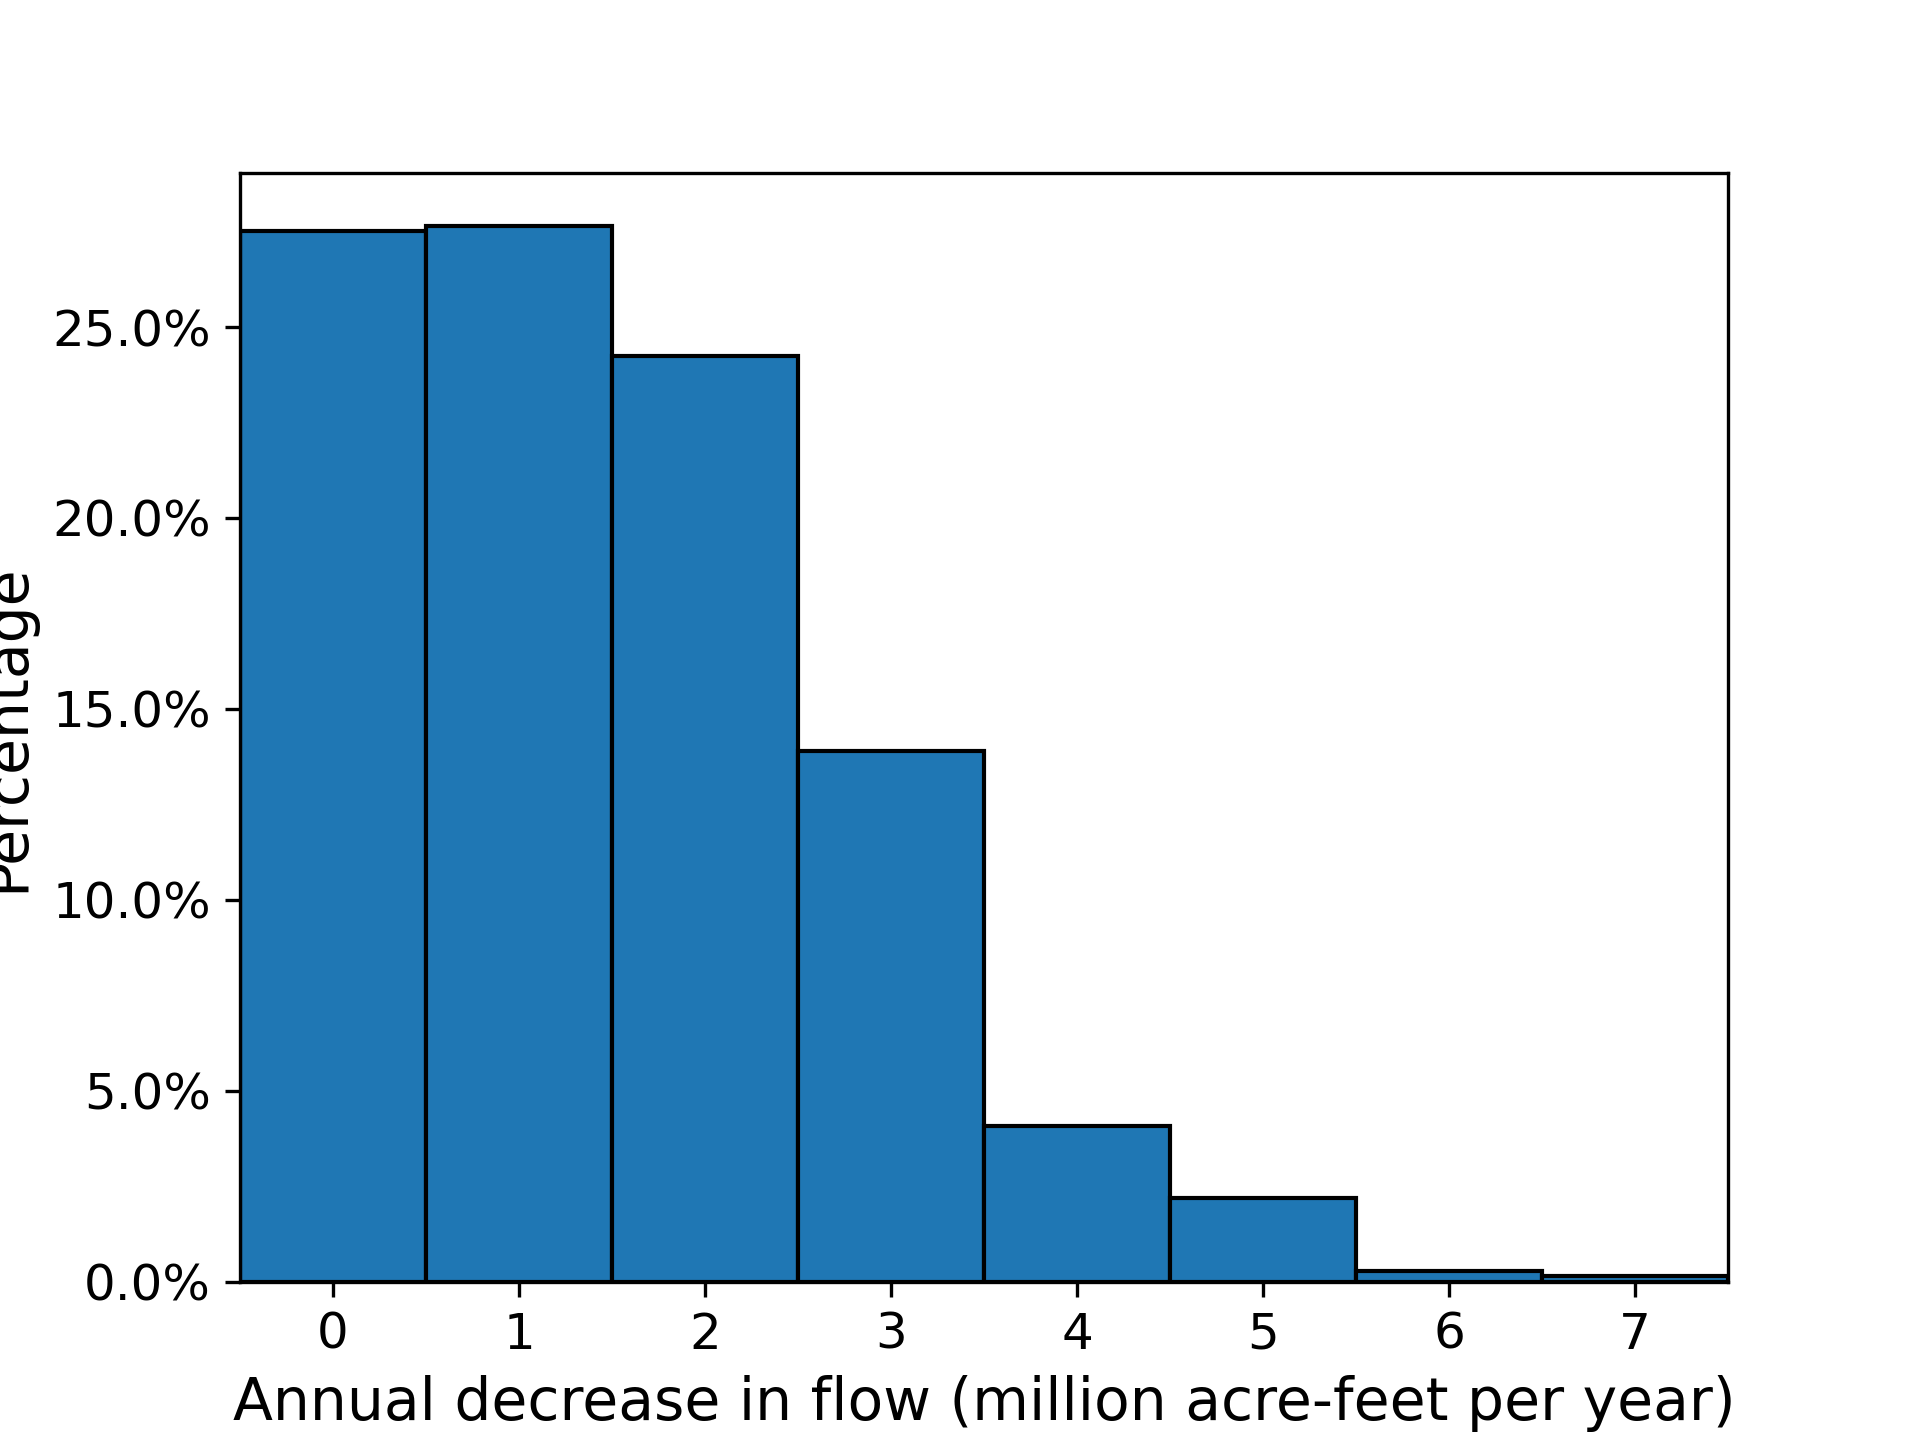
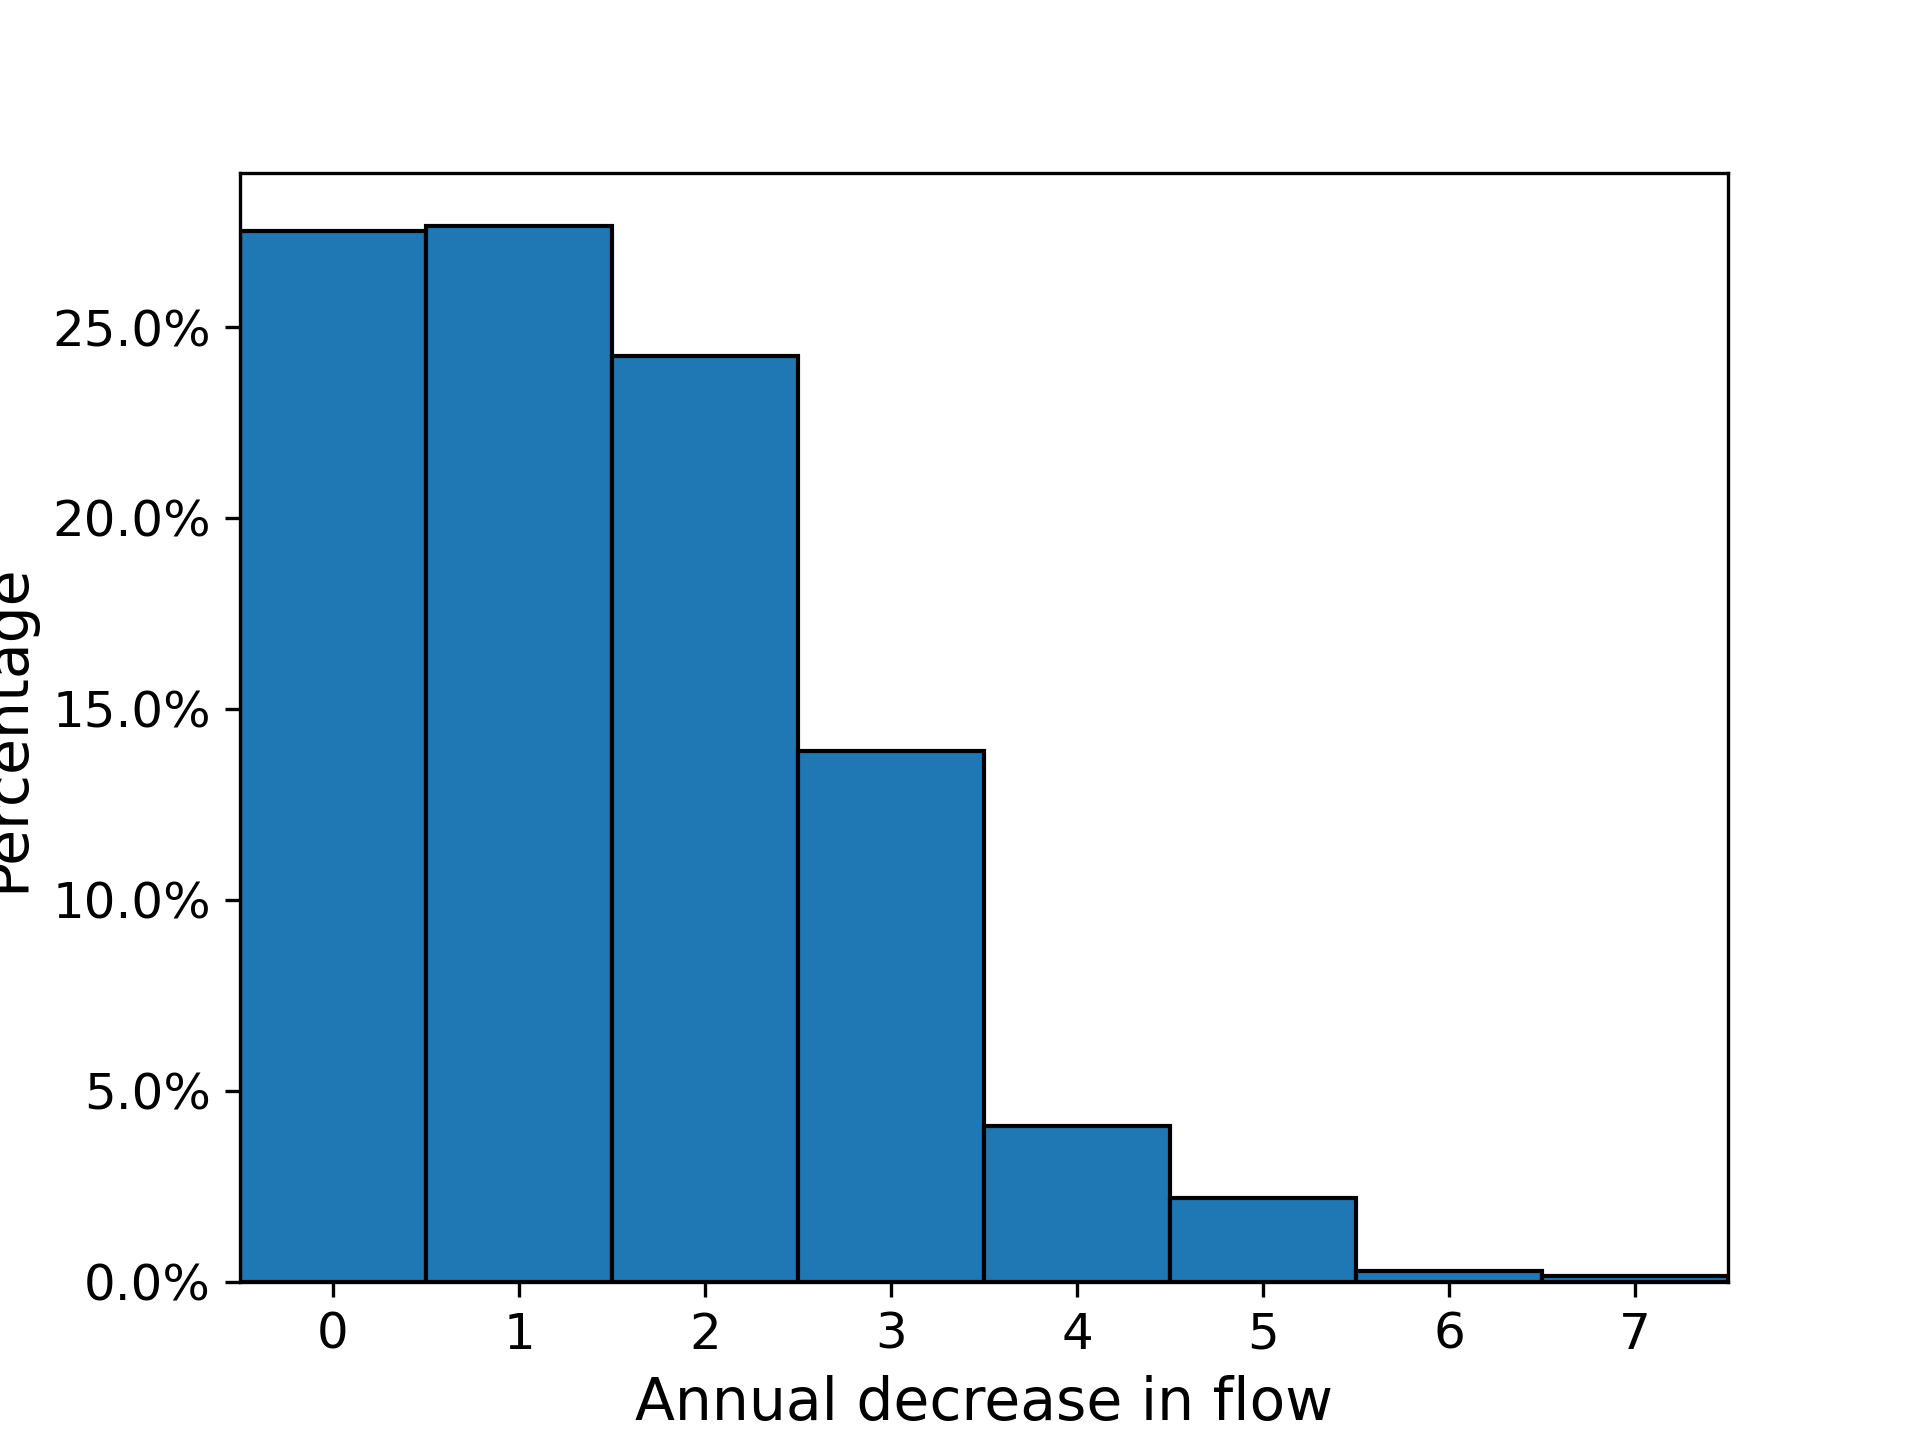
updated figure

Changed region(s): [[0.125, 0.9375, 0.9062, 1.0]]

diff --git a/AnnualDifferenceInFlow/AnnualDifferenceInFlow.py b/AnnualDifferenceInFlow/AnnualDifferenceInFlow.py
@@ -89,7 +89,7 @@ ax.set_xticks(np.arange(0, 8))
 ax.set_xlim(left=-0.5, right=7.5)
 
 # Axis labels
-ax.set_xlabel("Annual decrease in flow (million acre-feet per year)", fontsize=14)
+ax.set_xlabel("Annual decrease in flow\n (million acre-feet per year)", fontsize=14)
 ax.set_ylabel("Percentage", fontsize=14)
 ax.tick_params(axis = 'both', labelsize = 12)
 
